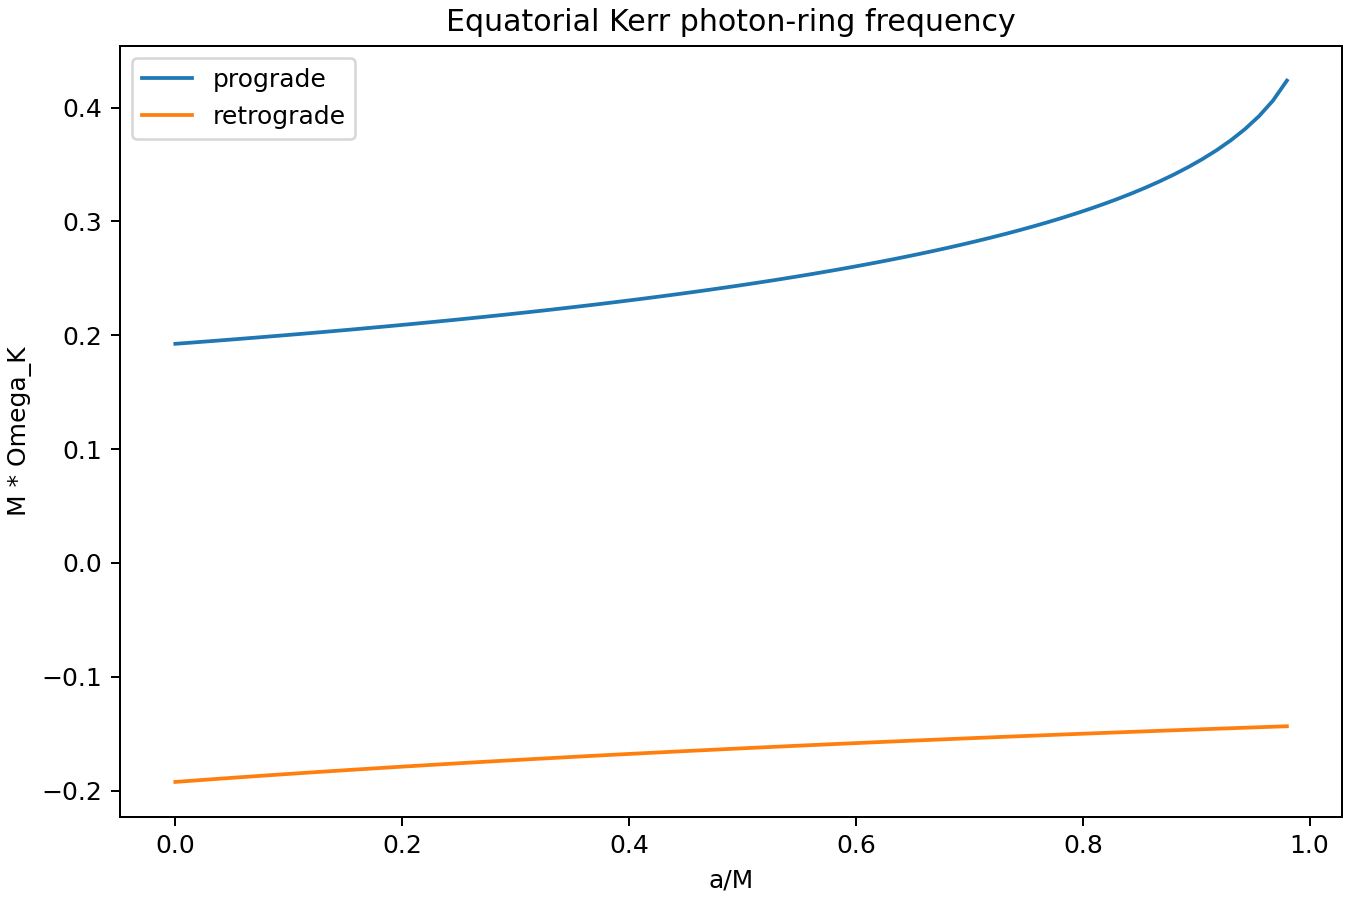
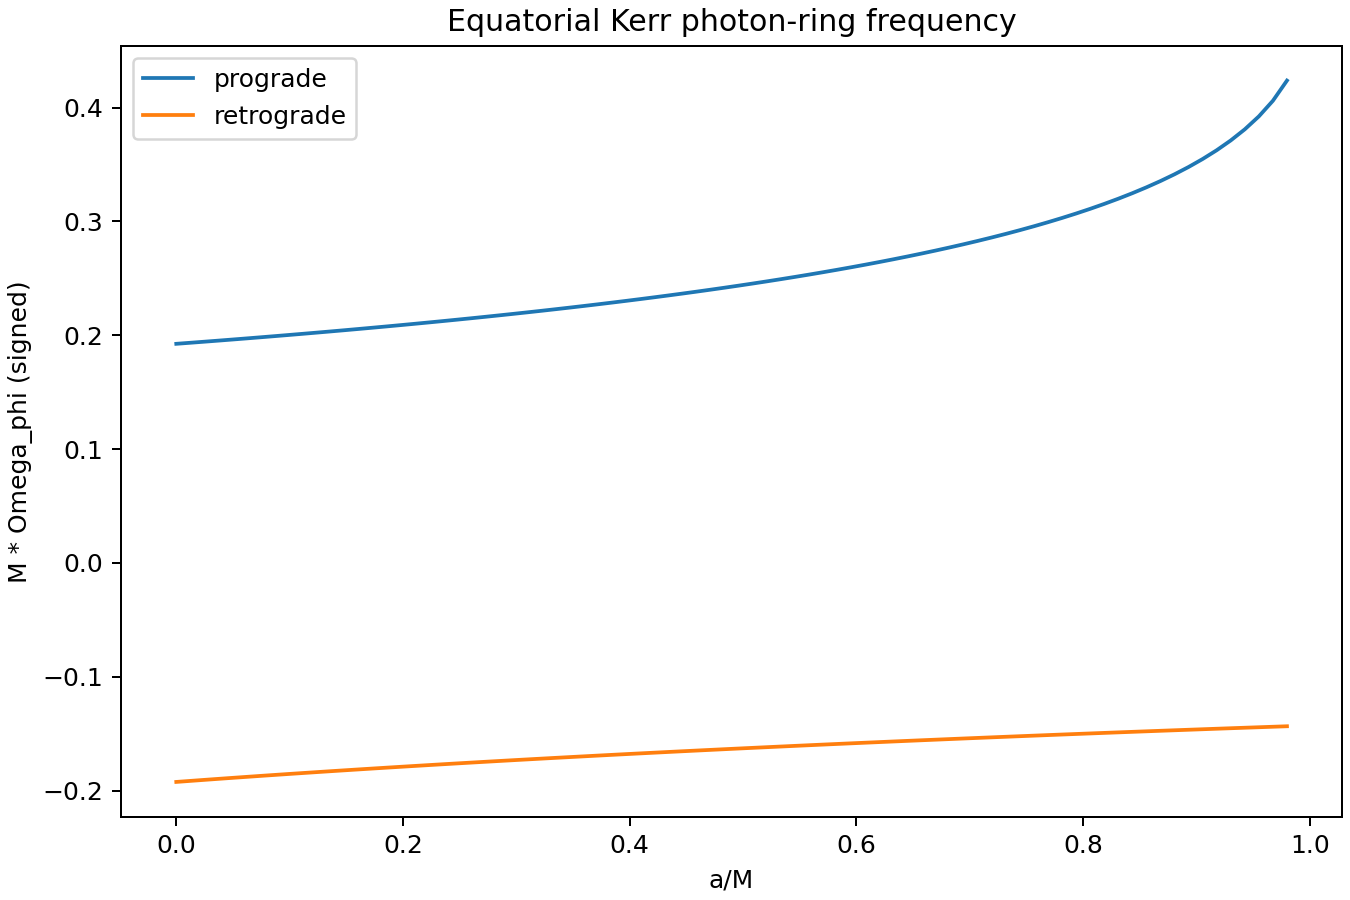
Use m-mode Kerr residual extraction

diff --git a/rotating_kerr_residual_diagnostics.py b/rotating_kerr_residual_diagnostics.py
@@ -9,8 +9,9 @@ import pandas as pd
 
 # Demo/default inputs. Units use G = c = 1.
 M = 1.0
-a = 0.6
-ell = 4
+a = 0.7
+ell = 2
+m = 2
 n = 0
 branch = 1  # +1 prograde, -1 retrograde
 
@@ -27,6 +28,18 @@ def validate_branch(branch: int) -> None:
         raise ValueError("branch must be +1 for prograde or -1 for retrograde.")
 
 
+def validate_azimuthal_number(m: int, branch: int) -> None:
+    if m == 0:
+        raise ValueError(
+            "The equatorial Kerr eikonal baseline requires nonzero azimuthal number m."
+        )
+    if np.sign(m) != branch:
+        raise ValueError(
+            "Use sign(m) consistent with the branch: m > 0 for prograde, "
+            "m < 0 for retrograde."
+        )
+
+
 def kerr_photon_radius(M: float, a: float, branch: int) -> float:
     validate_kerr_spin(M, a)
     validate_branch(branch)
@@ -34,7 +47,7 @@ def kerr_photon_radius(M: float, a: float, branch: int) -> float:
     return 2.0 * M * (1.0 + np.cos((2.0 / 3.0) * np.arccos(argument)))
 
 
-def kerr_photon_frequency(M: float, a: float, branch: int) -> float:
+def kerr_photon_frequency_signed(M: float, a: float, branch: int) -> float:
     r_ph = kerr_photon_radius(M, a, branch)
     sqrt_M = np.sqrt(M)
     return branch * sqrt_M / (r_ph**1.5 + branch * a * sqrt_M)
@@ -97,35 +110,55 @@ def kerr_lyapunov_exponent(M: float, a: float, branch: int) -> float:
     return float(np.sqrt(max(lambda_sq, 0.0)))
 
 
-def extract_eikonal_observables(omega_qnm: complex, ell: int, n: int) -> tuple[float, float]:
-    if ell == 0:
-        raise ValueError("ell must be nonzero.")
+def extract_equatorial_kerr_observables(
+    omega_qnm: complex,
+    m: int,
+    n: int,
+) -> tuple[float, float]:
+    """Extract positive-frequency eikonal observables for a Kerr baseline.
+
+    The equatorial Kerr eikonal relation uses the azimuthal number m:
+    omega_QNM = m*Omega_phi - i*(n+1/2)*lambda.
+    For residual diagnostics we compare positive observed QNM frequency
+    magnitudes, so Omega_obs_abs = Re(omega_qnm)/abs(m).
+    """
+
+    if m == 0:
+        raise ValueError(
+            "The equatorial Kerr eikonal baseline requires nonzero azimuthal number m."
+        )
     if n <= -0.5:
         raise ValueError("n must satisfy n + 1/2 > 0.")
-    Omega = omega_qnm.real / ell
-    lambda_obs = -omega_qnm.imag / (n + 0.5)
-    return Omega, lambda_obs
+    Omega_obs_abs = np.real(omega_qnm) / abs(m)
+    if Omega_obs_abs < 0.0:
+        raise ValueError("Expected positive Re(omega_qnm) for residual diagnostics.")
+    lambda_obs = -np.imag(omega_qnm) / (n + 0.5)
+    return Omega_obs_abs, lambda_obs
 
 
 def compute_kerr_residuals(
     omega_qnm: complex,
     M: float,
     a: float,
-    ell: int,
+    m: int,
     n: int,
     branch: int,
 ) -> dict[str, float]:
-    Omega_obs, lambda_obs = extract_eikonal_observables(omega_qnm, ell, n)
+    validate_branch(branch)
+    validate_azimuthal_number(m, branch)
+    Omega_obs_abs, lambda_obs = extract_equatorial_kerr_observables(omega_qnm, m, n)
     r_ph = kerr_photon_radius(M, a, branch)
-    Omega_K = kerr_photon_frequency(M, a, branch)
+    Omega_phi = kerr_photon_frequency_signed(M, a, branch)
+    Omega_K_abs = abs(Omega_phi)
     lambda_K = kerr_lyapunov_exponent(M, a, branch)
     return {
-        "Omega_obs": Omega_obs,
+        "Omega_obs_abs": Omega_obs_abs,
         "lambda_obs": lambda_obs,
         "r_ph": r_ph,
-        "Omega_K": Omega_K,
+        "Omega_phi_signed": Omega_phi,
+        "Omega_K_abs": Omega_K_abs,
         "lambda_K": lambda_K,
-        "A_Kerr": Omega_obs / Omega_K - 1.0,
+        "A_Kerr": Omega_obs_abs / Omega_K_abs - 1.0,
         "B_Kerr": lambda_obs / lambda_K - 1.0,
     }
 
@@ -134,17 +167,20 @@ def synthetic_residual_demo(
     M: float,
     a: float,
     ell: int,
+    m: int,
     n: int,
     branch: int,
     A_Kerr_injected: float = 0.01,
     B_Kerr_injected: float = -0.02,
 ) -> pd.DataFrame:
-    Omega_K = kerr_photon_frequency(M, a, branch)
+    validate_azimuthal_number(m, branch)
+    Omega_phi = kerr_photon_frequency_signed(M, a, branch)
+    Omega_K_abs = abs(Omega_phi)
     lambda_K = kerr_lyapunov_exponent(M, a, branch)
-    Omega_obs = Omega_K * (1.0 + A_Kerr_injected)
+    Omega_obs_abs = Omega_K_abs * (1.0 + A_Kerr_injected)
     lambda_obs = lambda_K * (1.0 + B_Kerr_injected)
-    omega_qnm = ell * Omega_obs - 1j * (n + 0.5) * lambda_obs
-    recovered = compute_kerr_residuals(omega_qnm, M, a, ell, n, branch)
+    omega_qnm = abs(m) * Omega_obs_abs - 1j * (n + 0.5) * lambda_obs
+    recovered = compute_kerr_residuals(omega_qnm, M, a, m, n, branch)
     schwarzschild_expected = 1.0 / (3.0 * np.sqrt(3.0) * M)
     schwarzschild_lambda = kerr_lyapunov_exponent(M, 0.0, branch)
 
@@ -155,10 +191,14 @@ def synthetic_residual_demo(
                 "a": a,
                 "a_over_M": a / M,
                 "ell": ell,
+                "m": m,
                 "n": n,
                 "branch": branch,
                 "omega_re": omega_qnm.real,
                 "omega_im": omega_qnm.imag,
+                "Omega_phi_signed": Omega_phi,
+                "Omega_K_abs": Omega_K_abs,
+                "Omega_obs_abs": recovered["Omega_obs_abs"],
                 "A_Kerr_injected": A_Kerr_injected,
                 "B_Kerr_injected": B_Kerr_injected,
                 "A_Kerr_recovered": recovered["A_Kerr"],
@@ -166,7 +206,6 @@ def synthetic_residual_demo(
                 "A_abs_error": abs(recovered["A_Kerr"] - A_Kerr_injected),
                 "B_abs_error": abs(recovered["B_Kerr"] - B_Kerr_injected),
                 "r_ph": recovered["r_ph"],
-                "Omega_K": recovered["Omega_K"],
                 "lambda_K": recovered["lambda_K"],
                 "schwarzschild_lambda_expected": schwarzschild_expected,
                 "schwarzschild_lambda_numeric": schwarzschild_lambda,
@@ -189,7 +228,10 @@ def scan_kerr_baselines(M: float) -> pd.DataFrame:
                     "branch": branch_value,
                     "branch_label": "prograde" if branch_value == 1 else "retrograde",
                     "r_ph_over_M": kerr_photon_radius(M, a_value, branch_value) / M,
-                    "M_Omega_K": M * kerr_photon_frequency(M, a_value, branch_value),
+                    "M_Omega_phi_signed": M
+                    * kerr_photon_frequency_signed(M, a_value, branch_value),
+                    "M_Omega_K_abs": M
+                    * abs(kerr_photon_frequency_signed(M, a_value, branch_value)),
                     "M_lambda_K": M * kerr_lyapunov_exponent(M, a_value, branch_value),
                 }
             )
@@ -232,7 +274,7 @@ def main() -> None:
     out_dir = Path("outputs") / "rotating_kerr_residuals"
     out_dir.mkdir(parents=True, exist_ok=True)
 
-    demo = synthetic_residual_demo(M, a, ell, n, branch)
+    demo = synthetic_residual_demo(M, a, ell, m, n, branch)
     demo.to_csv(out_dir / "kerr_residual_demo.csv", index=False)
 
     scan = scan_kerr_baselines(M)
@@ -245,8 +287,8 @@ def main() -> None:
     )
     plot_branch_scan(
         scan,
-        "M_Omega_K",
-        "M * Omega_K",
+        "M_Omega_phi_signed",
+        "M * Omega_phi (signed)",
         "Equatorial Kerr photon-ring frequency",
         out_dir / "kerr_photon_frequency_vs_spin.png",
     )

diff --git a/README.md b/README.md
@@ -213,9 +213,29 @@ It computes the equatorial Kerr photon-ring radius, orbital frequency, and
 Lyapunov exponent, then compares an input eikonal QNM frequency with the Kerr
 baseline.
 
+For the equatorial Kerr baseline, the relevant phase number is the azimuthal
+number `m`, not only `ell`:
+
+```text
+omega_QNM = m * Omega_phi - i * (n + 1/2) * lambda
+```
+
+The geodesic frequency `Omega_phi` is signed: prograde branches are positive
+and retrograde branches are negative in this convention. For residual
+diagnostics, the code compares positive QNM frequency magnitudes:
+
+```text
+Omega_obs_abs = Re(omega_QNM) / abs(m)
+Omega_Kerr_abs = abs(Omega_phi)
+```
+
+The demo uses `M = 1`, `a = 0.7`, `ell = 2`, `m = 2`, `n = 0`, and the
+prograde branch. In this convention, prograde uses `branch = +1` with `m > 0`,
+while retrograde uses `branch = -1` with `m < 0`.
+
 The resulting quantities are:
 
-- `A_Kerr = Omega/Omega_Kerr - 1`
+- `A_Kerr = Omega_obs_abs/Omega_Kerr_abs - 1`
 - `B_Kerr = lambda/lambda_Kerr - 1`
 
 These should be interpreted as residual shifts relative to Kerr, not yet as